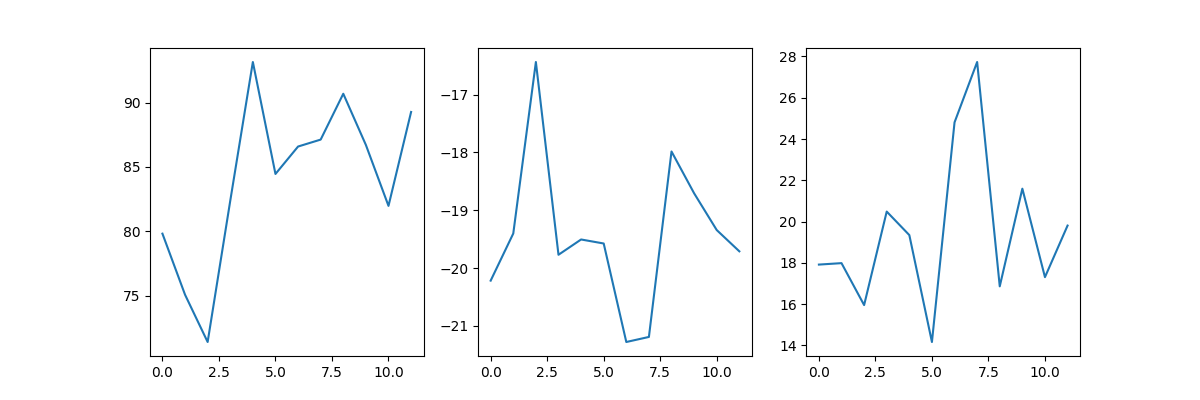
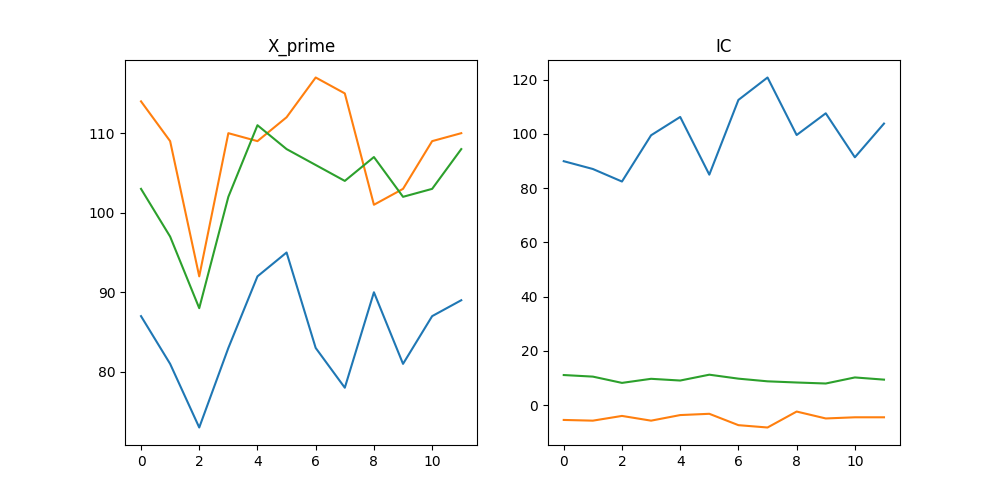
update

diff --git a/hw1/p3_c.py b/hw1/p3_c.py
@@ -1,0 +1,59 @@
+import pyforest
+
+def centering(x):
+    return x - np.mean(x)
+
+def visualize_for_each_step(X):
+    """
+    Visualize the data for each step, and plot each step's data in a figure in 3D.
+    :param X: matrix X
+    """
+    # centering X along each row
+    X_centered = np.apply_along_axis(centering, 0, X)
+    print(X_centered.round(3))
+    
+    # compute the variance-covariance matrix of X
+    var_covar_matrix = np.dot(X_centered.T, X_centered) / (X.shape[0] - 1)
+    print("var_covar_matrix")
+    print(var_covar_matrix.round(2))
+    
+    # compute the eigenvalues and eigenvectors of the variance-covariance matrix of X
+    eigenvalues, eigenvectors = np.linalg.eig(var_covar_matrix)
+    print(eigenvalues.round(2))
+    print(eigenvectors.round(2))
+    
+    # compute the decorrelated matrix X
+    X_decorrelated = np.dot(X_centered, eigenvectors)
+    print(X_decorrelated.round(2))
+    
+    # compute the whitened matrix X
+    X_whitened = np.apply_along_axis(lambda x: x / np.sqrt(eigenvalues), 1, X_decorrelated)
+    print(X_whitened.round(2))
+    
+    # plot the data for each step in a figure with 4 subplots in 3D
+    fig = plt.figure(figsize=(12, 12))
+    ax1 = fig.add_subplot(221, projection='3d')
+    ax1.scatter(X[:, 0], X[:, 1], X[:, 2])
+    ax1.set_title('X')
+    ax2 = fig.add_subplot(222, projection='3d')
+    ax2.scatter(X_centered[:, 0], X_centered[:, 1], X_centered[:, 2])
+    ax2.set_title('X_centered')
+    ax3 = fig.add_subplot(223, projection='3d')
+    ax3.scatter(X_decorrelated[:, 0], X_decorrelated[:, 1], X_decorrelated[:, 2])
+    ax3.set_title('X_decorrelated')
+    ax4 = fig.add_subplot(224, projection='3d')
+    ax4.scatter(X_whitened[:, 0], X_whitened[:, 1], X_whitened[:, 2])
+    ax4.set_title('X_whitened')
+    plt.tight_layout()
+    plt.savefig('p3_c_visualize_for_each_step.png')
+    
+
+if __name__ == '__main__':
+    X = np.load('X.npy')
+    # X = np.array([[1, 1, 2, 0, 5, 4, 5, 3],[3, 2, 3, 3, 4, 5, 5, 4]]).astype(float).T
+    # choose 1, 5 and 10 cols of X
+    X_prime = X[:,[1, 5, 9]]
+    print(X_prime)
+    print(X)
+    
+    visualize_for_each_step(X_prime)

diff --git a/hw1/p3_d.py b/hw1/p3_d.py
@@ -50,13 +50,16 @@ if __name__ == '__main__':
     IC = fastICA(X_prime, n_components=3)
     print(IC.round(2))
     
-    # plot 3 independent components of X_prime
-    plt.figure(figsize=(12, 4))
-    plt.subplot(1, 3, 1)
-    plt.plot(IC[:, 0])
-    plt.subplot(1, 3, 2)
-    plt.plot(IC[:, 1])
-    plt.subplot(1, 3, 3)
-    plt.plot(IC[:, 2])
+    # plot 3 independent components of X_prime and the original X_prime
+    plt.figure(figsize=(10, 5))
+    plt.subplot(121)
+    plt.plot(X_prime)
+    plt.title('X_prime')
+    plt.subplot(122)
+    plt.plot(IC)
+    plt.title('IC')
     plt.savefig('p3_d.png')
+    plt.clf()
+    
+
     
